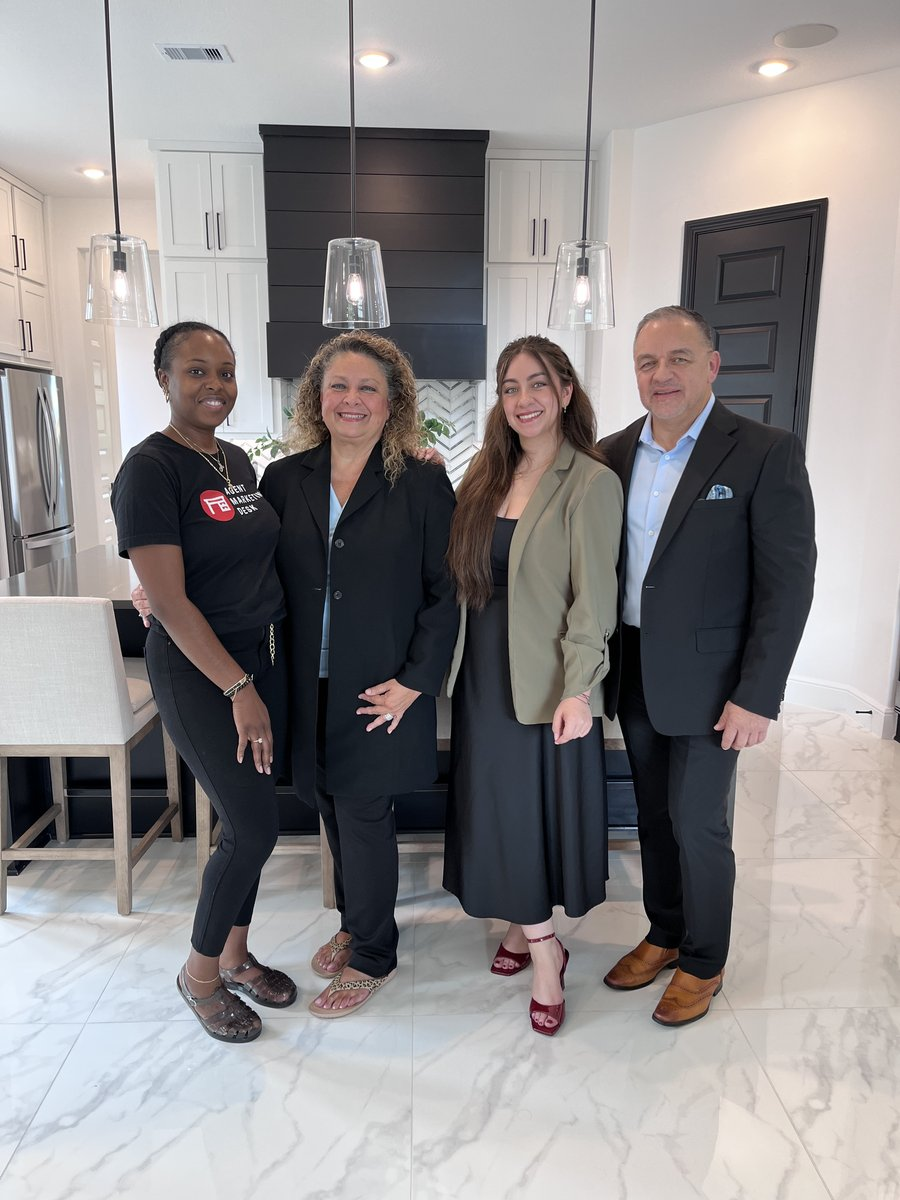
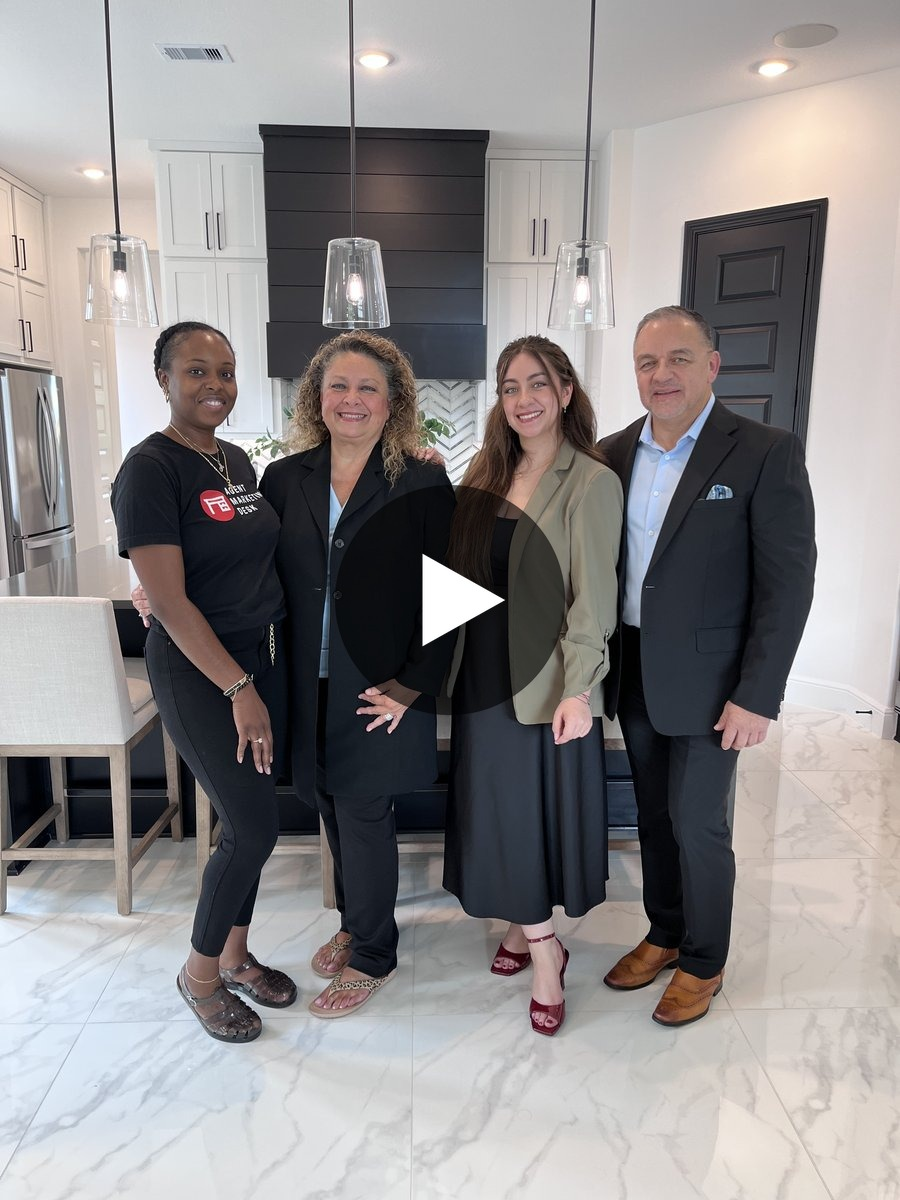
Add play buttons to the Tamika and Arriondo video thumbnails.
Composite a centered play icon onto the photos used in the October 2 issue so those linked thumbnails read as video, matching the August 26 newsletter.

Changed region(s): [[0.3733, 0.4008, 0.6533, 0.6167]]

diff --git a/issues/2026-10-02.html b/issues/2026-10-02.html
@@ -81,7 +81,7 @@
     </div>
     <div class="featured-work-grid solo" style="box-sizing: border-box;padding: 0;margin: 0 auto 22px;display: grid;gap: 12px;grid-template-columns: 1fr;max-width: 420px;">
       <a href="https://youtube.com/shorts/hk3lPquwrbA" style="box-sizing: border-box;margin: 0;padding: 0;color: inherit;display: block;text-decoration: none" target="_blank" rel="noopener">
-        <img src="https://raw.githubusercontent.com/Agent-Marketing-Desk/newsletter-assets/main/2026/10-october/2026-10-02/assets/images/tamika-scott-portrait.jpg" alt="Tamika Scott, Houston REALTOR" style="box-sizing: border-box;margin: 0;padding: 0;border: 0;max-width: 100%;display: block;height: auto;width: 100%;border-radius: 4px;">
+        <img src="https://raw.githubusercontent.com/Agent-Marketing-Desk/newsletter-assets/main/2026/10-october/2026-10-02/assets/images/tamika-scott-portrait.jpg" alt="Watch Tamika Scott's YouTube short" style="box-sizing: border-box;margin: 0;padding: 0;border: 0;max-width: 100%;display: block;height: auto;width: 100%;border-radius: 4px;">
       </a>
     </div>
     <div class="featured-work-cta" style="box-sizing: border-box;margin: 0;padding: 0;margin-top: 8px;display: flex;gap: 10px;flex-wrap: wrap;justify-content: center;">
@@ -116,7 +116,7 @@
     </div>
     <div class="featured-work-grid solo" style="box-sizing: border-box;padding: 0;margin: 0 auto 22px;display: grid;gap: 12px;grid-template-columns: 1fr;max-width: 360px;">
       <a href="https://www.instagram.com/reel/DdUDu3BSiS8/" style="box-sizing: border-box;margin: 0;padding: 0;color: inherit;display: block;text-decoration: none" target="_blank" rel="noopener">
-        <img src="https://raw.githubusercontent.com/Agent-Marketing-Desk/newsletter-assets/main/2026/10-october/2026-10-02/assets/images/arriondo-group-bts-hires.jpg" alt="Behind the scenes of a video shoot with the Arriondo Group" style="box-sizing: border-box;margin: 0;padding: 0;border: 0;max-width: 100%;display: block;height: auto;width: 100%;border-radius: 4px;">
+        <img src="https://raw.githubusercontent.com/Agent-Marketing-Desk/newsletter-assets/main/2026/10-october/2026-10-02/assets/images/arriondo-group-bts-hires.jpg" alt="Watch the Arriondo Group behind-the-scenes reel" style="box-sizing: border-box;margin: 0;padding: 0;border: 0;max-width: 100%;display: block;height: auto;width: 100%;border-radius: 4px;">
       </a>
     </div>
     <div class="featured-work-cta" style="box-sizing: border-box;margin: 0;padding: 0;margin-top: 8px;display: flex;gap: 10px;flex-wrap: wrap;justify-content: center;">
